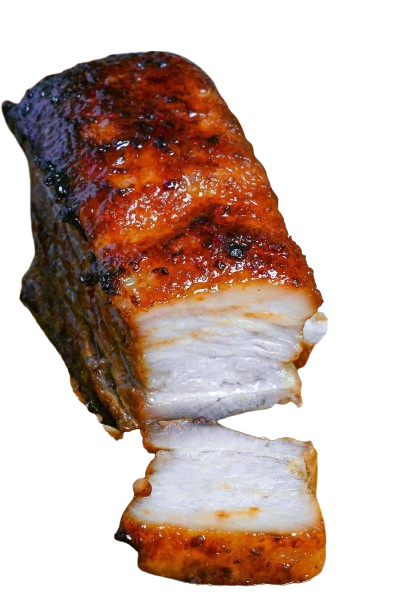
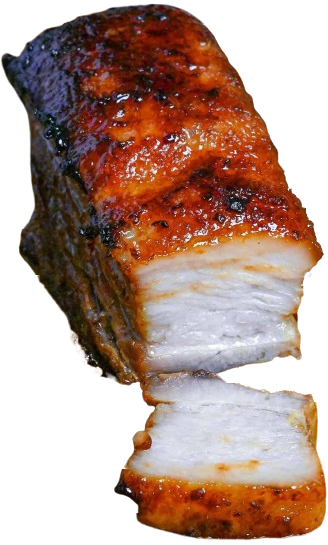
changed photos, changed links, made tooltip

diff --git a/assets/css/main.css b/assets/css/main.css
@@ -1,7 +1,7 @@
 :root {
   --icon-size: 200px;
-  --folder-w: 120px;
-  --folder-h: calc(0.8 * var(--folder-w));
+  --folder-w: 110px;
+  --folder-h: calc(0.85 * var(--folder-w));
   --card-w: 80px;
   --card-h: 70px;
 }
@@ -18,10 +18,14 @@ html, body {
 }
 
 #wrapper {
-	width: 100vw;
+	width: 70vw;
   	max-width: 900px;
   	margin: 0 auto;
   	padding: 2rem;
+}
+
+.back-to-home a {
+	color: #444 !important;
 }
 
 .banner {
@@ -33,28 +37,63 @@ html, body {
 	align-items: center;
 }
 
+h1{
+	font-size: min(2.5vw, 40px);
+}
+
+p {
+	line-height: 24px;
+}
+
 #banner-images{
 	display: flex;
 	flex-direction: row;
-	justify-content: center;
+	justify-content: right;
 	align-items: center;
 	gap: -20px;
+	width: auto;
+	cursor: pointer;
 }
 
-#b-img-1{
-	height: 180px;
-	z-index: 1;
+#b-img-5{
+	height: 120px;
+	z-index: 3;
 	position: relative;
 	bottom: -30px;
-	right: -30px;
+	right: -70px;
+	transform: rotate(-8deg)
+}
+
+/* #b-img-4{
+	height: 110px;
+	z-index: 0;
+	position: relative;
+	bottom: 30px;
+	right: -200px;
+}
+
+#b-img-3{
+	height: 100px;
+	z-index: 2;
+	position: relative;
+	bottom: -50px;
+	right: -120px;
+} */
+
+#b-img-1{
+	height: 110px;
+	z-index: 2;
+	position: relative;
+	bottom: 40px;
+	right: 0px;
 }
 
 #b-img-2{
-	height: 200px;
-	z-index: 2;
+	height: 180px;
+	z-index: 1;
 	position: relative;
 	bottom: 0px;
-	left: 0px;
+	left: 40px;
 }
 
 #main {
@@ -65,6 +104,7 @@ html, body {
 	display: flex;
 	flex-direction: row;
 	justify-content: space-between;
+	margin-top: 40px;
 }
 
 .folder-container {
@@ -75,6 +115,7 @@ html, body {
   	align-items: center;
   	justify-content: center;
   	perspective: 1000px;
+	position: relative
 }
 
 .folder {
@@ -83,7 +124,8 @@ html, body {
  	position: relative;
   	transform-style: preserve-3d;
   	margin-bottom: 12px;
-	margin-top: calc(var(--card-h) * 1.12 - var(--folder-h) * 0.5 + 50px);
+		margin-top: calc(var(--card-h) * 1.12 - var(--folder-h) * 0.5 + 10px);
+
 }
 
 /* panels */
@@ -112,8 +154,8 @@ html, body {
 	bottom: 0;
 	width: 100%;
 	height: 80%;
-	background: rgba(245, 245, 245, 0.95);
-	backdrop-filter: blur(4px);
+	background: rgba(245, 245, 245, 0.9);
+	backdrop-filter: blur(10px);
 	border-radius: 12px;
 	z-index: 3;
 	transform-origin: bottom center;
@@ -191,8 +233,7 @@ html, body {
 }
 
 a:hover, a:visited, a:link, a:active {
-  text-decoration: underline !important;
-  text-underline-offset: 4px !important;
+  text-decoration: none;
   -webkit-box-shadow: none !important;
   box-shadow: none !important;
   color: #000000;
@@ -215,6 +256,12 @@ img {
   transition: transform 300ms ease;
 }
 
+#b-img-5:hover {
+  transform: scale(1.05)
+  			rotate(-18deg);
+  transition: transform 300ms ease;
+}
+
 img:hover {
   transform: scale(1.05)
   			rotate(-5deg);
@@ -226,7 +273,8 @@ h2 {
 }
 
 .icons {
-	text-decoration: none;
+	text-decoration: underline;
+  text-underline-offset: 3px !important;
 	list-style-type: none;
 	display: flex;
 	flex-direction: column;
@@ -246,4 +294,27 @@ h2 {
 	gap: 16px;
 	margin-left:0;
 	padding: 0;
+}
+
+.tooltiptext {
+  visibility: hidden;
+  font-size: 11px;
+  background-color: #44444490;
+  color: #fff;
+  text-align: center;
+  border-radius: 6px;
+  padding: 4px 6px;
+  position: absolute;
+  z-index: 99999;
+  opacity: 0;
+  transition: opacity 0.3s;
+  pointer-events: none;
+  white-space: nowrap;
+  width: auto;
+  max-width: none;
+}
+
+.folder-container:hover .tooltiptext {
+  visibility: visible;
+  opacity: 1;
 }

diff --git a/designs.html b/designs.html
@@ -33,33 +33,16 @@
 						<div class="inner">
 							<div class="banner">
 								<div id="banner-text">
-									<h1><span class="auto-type"></span></h1>
+                                    <p class="back-to-home"><a href="index.html">&lt; back to home</a></h1>
+									<h1>design projects</span></h1>
 									<p id="about-me">
 										hi there! I'm Kaitlyn, a high school student based in the Bay Area. I love designing, coding, building web applications, and learning new technologies. feel free to explore my portfolio and reach out if you'd like to connect!
 									</p>
 								</div>
-								<div id="banner-images">
-									<img id="b-img-5" src="images/yakult.png">
-									<img id="b-img-2" src="images/image-removebg-preview (35) copy 3.png">
-									<img id="b-img-1" src="images/image-removebg-preview (35).png" >
-								</div>
 							</div>
-							
-							<script src="https://unpkg.com/typed.js@2.1.0/dist/typed.umd.js"></script>
-							<script>
-								var typed = new Typed(".auto-type", {
-									strings: ["welcome to my portfolio"],
-									startDelay: 500,
-									typeSpeed: 45,
-									backDelay: 3000,
-									backSpeed: 50,
-									cursorChar: '|',
-									loop: true
-								})
-							</script>
 
 							<div id="folder-section">
-								<a href="designs.html" target="_self" rel="noopener noreferrer">
+								<a href="" target="_self" rel="noopener noreferrer">
 								<div class="folder-container">
 									<div class="folder">
 										<div class="folder-back"></div>
@@ -72,10 +55,9 @@
 										<div class="folder-front"></div>
 									</div>
 									<div class="label">designs</div>
-									<span class="tooltiptext">click to open</span>
 								</div>
 								</a>
-								<a href="https://google.com/" target="_self" rel="noopener noreferrer">
+								<a href="" target="_self" rel="noopener noreferrer">
 								<div class="folder-container">
 									<div class="folder">
 										<div class="folder-back"></div>
@@ -88,10 +70,9 @@
 										<div class="folder-front"></div>
 									</div>
 									<div class="label">ftc robotics</div>
-									<span class="tooltiptext">click to open</span>
 								</div>
 								</a>
-								<a href="https://google.com/" target="_self" rel="noopener noreferrer">
+								<a href="" target="_self" rel="noopener noreferrer">
 								<div class="folder-container">
 									<div class="folder">
 										<div class="folder-back"></div>

diff --git a/assets/js/main.js b/assets/js/main.js
@@ -213,3 +213,20 @@ folder.addEventListener('mouseenter', randomizeCards);
 
 // also set initial positions once
 randomizeCards();
+
+
+////
+document.querySelectorAll('.folder-container').forEach(folder => {
+  const tooltip = folder.querySelector('.tooltiptext');
+
+  folder.addEventListener('mousemove', (e) => {
+    const rect = folder.getBoundingClientRect();   // folder box
+    const x = e.clientX - rect.left;               // mouse X inside folder
+    const y = e.clientY - rect.top;                // mouse Y inside folder
+
+    tooltip.style.left = x + 10 + 'px';  // offset so not on top of cursor
+    tooltip.style.top  = y + 10 + 'px';
+  });
+});
+
+
